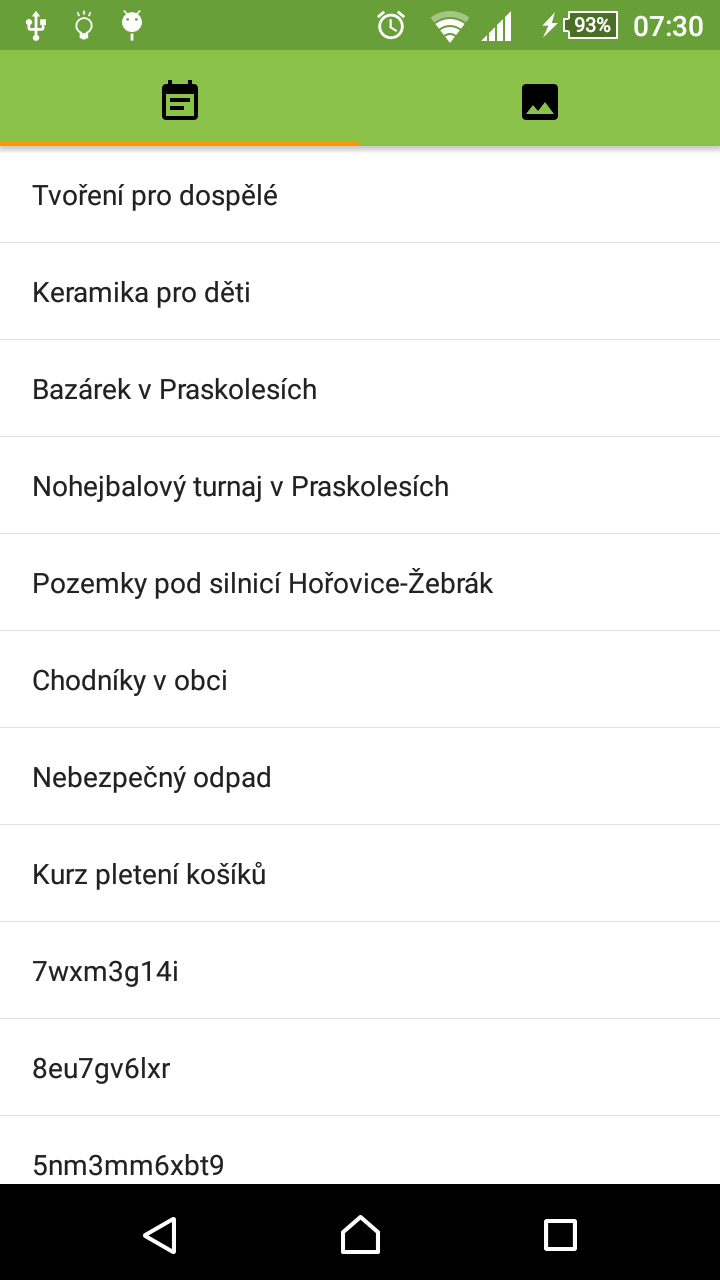
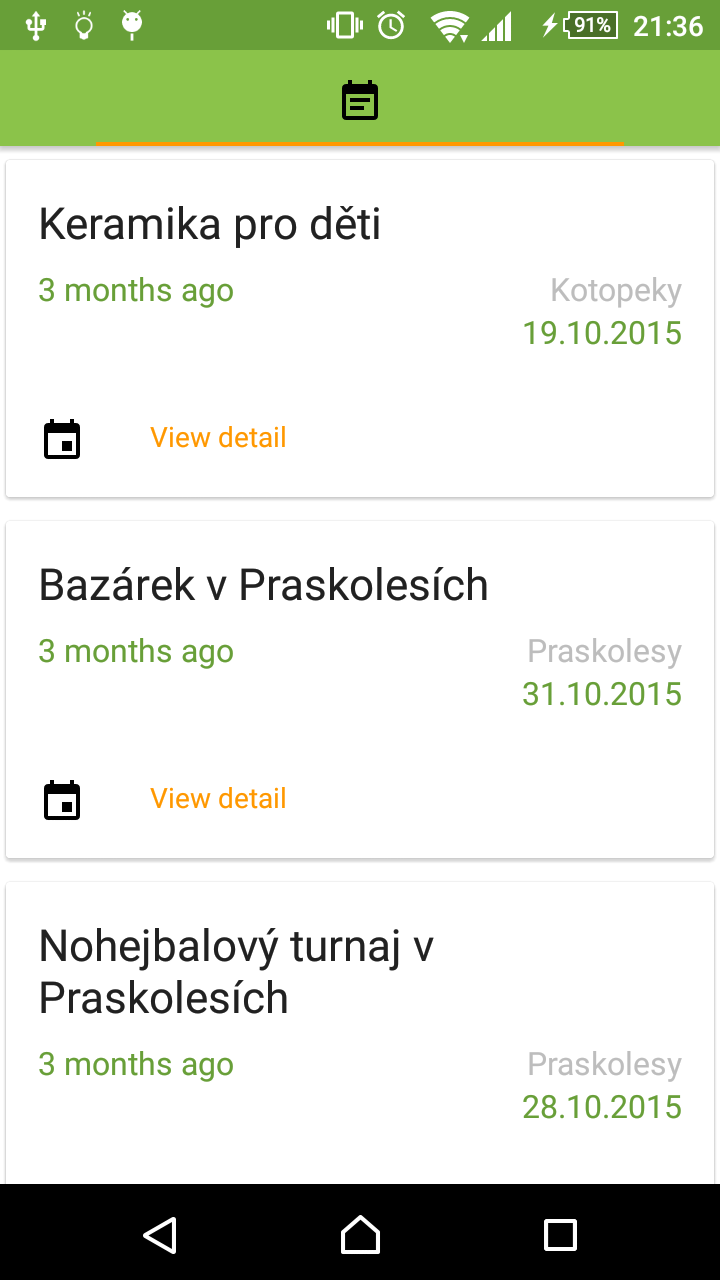
3.3.4.3 - Event list isolated 2 MVVM refactoring - card design with AUTO-LOADER

diff --git a/mobile/src/main/java/cz/koto/misak/kotipoint/android/mobile/adapter/EventRecyclerViewAdapter.java b/mobile/src/main/java/cz/koto/misak/kotipoint/android/mobile/adapter/EventRecyclerViewAdapter.java
@@ -5,7 +5,9 @@ import android.databinding.DataBindingUtil;
 import android.databinding.ViewDataBinding;
 import android.support.v7.widget.RecyclerView;
 import android.view.LayoutInflater;
+import android.view.View;
 import android.view.ViewGroup;
+import android.widget.ProgressBar;
 
 import cz.koto.misak.kotipoint.android.mobile.R;
 import cz.koto.misak.kotipoint.android.mobile.databinding.FragmentEventItemBinding;
@@ -18,11 +20,15 @@ public class EventRecyclerViewAdapter extends AutoLoadingRecyclerViewAdapter<KoT
     private static final int VIEW_TYPE_EVENT = 1;
     private static final int VIEW_TYPE_FOOTER = 2;
 
+    /*Temporary solution to distinguish helper (loader) item*/
+    private static final int UNIQUE_LOADER_ID = -2;
+
     private Context mContext;
+    private EventBindingHolder mFooterViewHolder;
 
     public EventRecyclerViewAdapter(Context context) {
         mContext = context;
-        //addFooter(new KoTiEvent(-2,"Loader"));
+        addFooter(new KoTiEvent(UNIQUE_LOADER_ID,"Loader"));
     }
 
 
@@ -38,8 +44,7 @@ public class EventRecyclerViewAdapter extends AutoLoadingRecyclerViewAdapter<KoT
     @Override
     public EventBindingHolder onCreateViewHolder(ViewGroup parent, int viewType) {
         if (viewType == VIEW_TYPE_EVENT) {
-//            View v = LayoutInflater.from(parent.getContext()).inflate(R.layout.fragment_event_item, parent, false);
-//            return new EventViewHolder(v, mListener);
+            /*Use binding.*/
             FragmentEventItemBinding fragmentEventItemBinding = DataBindingUtil.inflate(
                     LayoutInflater.from(parent.getContext()),
                     R.layout.fragment_event_item,
@@ -48,15 +53,16 @@ public class EventRecyclerViewAdapter extends AutoLoadingRecyclerViewAdapter<KoT
             return new EventBindingHolder(fragmentEventItemBinding);
 
         } else if (viewType == VIEW_TYPE_FOOTER) {
-//            View view = LayoutInflater.from(parent.getContext()).inflate(R.layout.fragment_event_footer, parent, false);
-//            return mFooterViewHolder =  new FooterViewHolder(view);
+            /*Use plain inflate for loader.*/
+            View view = LayoutInflater.from(parent.getContext()).inflate(R.layout.fragment_event_footer, parent, false);
+            return mFooterViewHolder =  new EventBindingHolder(view);
         }
         return null;
     }
 
     @Override
     public int getItemViewType(int position) {
-        if (getItem(position).getmId()<-1){
+        if (getItem(position).getmId()==UNIQUE_LOADER_ID){
             return VIEW_TYPE_FOOTER;
         }else{
             return VIEW_TYPE_EVENT;
@@ -67,7 +73,6 @@ public class EventRecyclerViewAdapter extends AutoLoadingRecyclerViewAdapter<KoT
     public void onBindViewHolder(EventBindingHolder holder, int position) {
         switch (getItemViewType(position)) {
             case VIEW_TYPE_EVENT:
-//                onBindTextHolder(holder, position);
                 FragmentEventItemBinding fragmentEventItemBinding = (FragmentEventItemBinding)holder.binding;
                 fragmentEventItemBinding.setViewModel(new EventViewModel(mContext,getItem(position)));
                 break;
@@ -76,70 +81,56 @@ public class EventRecyclerViewAdapter extends AutoLoadingRecyclerViewAdapter<KoT
         }
     }
 
-//    private void onBindTextHolder(EventBindingHolder holder, int position) {
-//        EventBindingHolder mainHolder = (EventBindingHolder) holder;
-//        mainHolder.mNameTextView.setText(getItem(position).getmHeadline());
-//    }
-
 
     public void hideAutoLoader(){
-//        if (mFooterViewHolder==null)return;
-//        mFooterViewHolder.hideProgress();
+        if (mFooterViewHolder==null)return;
+        mFooterViewHolder.hideProgress();
     }
 
     public  void showLoader(){
-//      if (mFooterViewHolder==null)return;
-//        mFooterViewHolder.showProgress();
+      if (mFooterViewHolder==null)return;
+        mFooterViewHolder.showProgress();
     }
 
-//    public static final class EventViewHolder extends RecyclerView.ViewHolder {
-//        private TextView mNameTextView;
-//
-//        public EventViewHolder(View itemView) {
-//            super(itemView);
-//
-//            // find views
-//            mNameTextView = (TextView) itemView.findViewById(R.id.fragment_event_item_name);
-//        }
-//
-//
-//        public void bindData(KoTiEvent koTiEvent) {
-//            mNameTextView.setText(koTiEvent.getmHeadline());
-//        }
-//    }
-//
-//    public static final class FooterViewHolder extends RecyclerView.ViewHolder {
-//
-//        private ProgressBar mProgressBar;
-//
-//        public FooterViewHolder(View itemView) {
-//            super(itemView);
-//
-//            mProgressBar = (ProgressBar) itemView.findViewById(R.id.fragment_event_footer_progress);
-//            hideProgress();
-//        }
-//
-//        public void showProgress(){
-//            mProgressBar.setVisibility(View.VISIBLE);
-//        }
-//
-//        public void hideProgress(){
-//            mProgressBar.setVisibility(View.GONE);
-//        }
-//    }
-
+    /**
+     * EventBindingHolder item.
+     *
+     * TODO temporary (two in one) quick fix.
+     * Currently could be initialized as binding item, or as helper loader holder.
+     * This should be solved better (clearly) in the future.
+     */
     public static class EventBindingHolder extends RecyclerView.ViewHolder {
         private ViewDataBinding binding;
+        private ProgressBar mProgressBar;
 
         public EventBindingHolder(FragmentEventItemBinding binding) {
-            super(binding.cardView);
+            super(binding.eventCardView);
             this.binding = binding;
         }
 
-//        public BindingHolder(FragmentEventFooter binding) {
-//            super(binding.containerItem);
-//            this.binding = binding;
-//        }
+        public EventBindingHolder(View itemView) {
+            super(itemView);
+
+            mProgressBar = (ProgressBar) itemView.findViewById(R.id.fragment_event_footer_progress);
+            hideProgress();
+        }
+
+        public void showProgress(){
+            if (mProgressBar!=null) {
+                mProgressBar.setVisibility(View.VISIBLE);
+            }
+        }
+
+        public void hideProgress(){
+            if (mProgressBar!=null) {
+                mProgressBar.setVisibility(View.GONE);
+            }
+        }
+
+        public boolean isLoader(){
+            return  (mProgressBar==null);
+        }
+
     }
 
 }

diff --git a/mobile/src/main/java/cz/koto/misak/kotipoint/android/mobile/viewModel/EventViewModel.java b/mobile/src/main/java/cz/koto/misak/kotipoint/android/mobile/viewModel/EventViewModel.java
@@ -4,13 +4,13 @@ package cz.koto.misak.kotipoint.android.mobile.viewModel;
 import android.content.Context;
 import android.content.Intent;
 import android.databinding.BaseObservable;
-import android.text.Html;
-import android.text.Spannable;
-import android.text.SpannableString;
-import android.text.style.UnderlineSpan;
+import android.support.design.widget.Snackbar;
 import android.view.View;
 
 import org.ocpsoft.prettytime.PrettyTime;
+
+import java.text.SimpleDateFormat;
+import java.util.Date;
 
 import cz.koto.misak.kotipoint.android.mobile.R;
 import cz.koto.misak.kotipoint.android.mobile.activity.EventDetailActivity;
@@ -52,57 +52,38 @@ public class EventViewModel extends BaseObservable {
 //        }
 //    }
 
-    public String getPostScore() {
-        return event.getmEventDate()==null? "N/A":new PrettyTime().format(event.getmEventDate());
+    public String getEventDateDuration() {
+        return event.getmEventDate() == null ? "" : new PrettyTime().format(event.getmEventDate());
     }
 
-    public Spannable getPostAuthor() {
-        String location = (event.getmEventLocation()==null || event.getmEventLocation().size()==0)?"-":event.getmEventLocation().get(0);
-        String author = context.getString(R.string.text_post_author,location);
-        SpannableString content = new SpannableString(author);
-        int index = author.indexOf(location);
-        content.setSpan(new UnderlineSpan(), index,location.length() + index, 0);
-        return content;
+    public String getEventDate() {
+        SimpleDateFormat df = new SimpleDateFormat(context.getResources().getString(R.string.date_format_date));
+        return event.getmEventDate() == null ? "" : df.format(event.getmEventDate());
     }
 
-    public String getPostTitle() {
+    public int getEventDateVisibility() {
+        return (event.getmEventDate() == null || event.getmEventDate().after(new Date())) ? View.GONE : View.VISIBLE;
+    }
+
+    public String getEventLocation() {
+        String location = (event.getmEventLocation() == null || event.getmEventLocation().size() == 0) ? "-" : event.getmEventLocation().get(0);
+//        String author = context.getString(R.string.text_post_author,location);
+//        SpannableString content = new SpannableString(author);
+//        int index = author.indexOf(location);
+//        content.setSpan(new UnderlineSpan(), index,location.length() + index, 0);
+//        return content;
+        return location;
+    }
+
+    public String getHeadline() {
         return event.getmHeadline();
     }
 
-    public String getCommentText() {
-        return Html.fromHtml(event.getmText().trim()).toString();
-    }
 
-    public String getCommentAuthor() {
-        return context.getResources().getString(R.string.text_comment_author, event.getmHeadline());
-    }
-
-    public String getCommentDate() {
-        return event.getmEventDate()==null? "N/A":new PrettyTime().format(event.getmEventDate());
-    }
-
-    public int getCommentsVisibility() {
-        return  /*post.postType == Post.PostType.STORY && post.kids == null*/false ? View.GONE : View.VISIBLE;
-    }
-
-//    public int getCommentDepth() {
-//        return event.depth;
-//    }
-//
-//    public boolean getCommentIsTopLevel() {
-//        return event.isTopLevelComment;
-//    }
-
-    public View.OnClickListener onClickPost() {
+    public View.OnClickListener onClickEvent() {
         return new View.OnClickListener() {
             @Override
             public void onClick(View v) {
-//                Post.PostType postType = post.postType;
-//                if (postType == Post.PostType.JOB || postType == Post.PostType.STORY) {
-//                    launchStoryActivity();
-//                } else if (postType == Post.PostType.ASK) {
-//                    launchCommentsActivity();
-//                }
                 context.startActivity(EventDetailActivity.newIntent(context));
                 Intent i = EventDetailActivity.newIntent(context);
                 i.putExtra(EventDetailActivity.PAYLOAD_KEY, event);
@@ -111,22 +92,16 @@ public class EventViewModel extends BaseObservable {
         };
     }
 
-    public View.OnClickListener onClickAuthor() {
+    public View.OnClickListener onClickDate() {
         return new View.OnClickListener() {
             @Override
             public void onClick(View v) {
-                //do nothing yet
+                // Display a SnackBar with an explanation and a button to trigger the request.
+                Snackbar.make(v, R.string.calendar_not_implemented,
+                        Snackbar.LENGTH_SHORT).show();
             }
         };
     }
 
-    public View.OnClickListener onClickComments() {
-        return new View.OnClickListener() {
-            @Override
-            public void onClick(View v) {
-               //do nothing yet
-            }
-        };
-    }
 }
 

diff --git a/mobile/src/main/java/cz/koto/misak/kotipoint/android/mobile/adapter/AutoLoadingRecyclerViewAdapter.java b/mobile/src/main/java/cz/koto/misak/kotipoint/android/mobile/adapter/AutoLoadingRecyclerViewAdapter.java
@@ -25,16 +25,19 @@ public abstract class AutoLoadingRecyclerViewAdapter<T,U extends RecyclerView.Vi
 
     protected List<T> mElementList = new ArrayList<>();
 
+    protected int mFooterCount = 0;
+
     public void addNewItems(List<T> items) {
-        mElementList.addAll(mElementList.size()/*-1 footer*/,items);
+        mElementList.addAll(mElementList.size()- mFooterCount,items);
     }
 
     public void addNewItem(T item) {
-        mElementList.add(mElementList.size()/*-1 footer*/,item);
+        mElementList.add(mElementList.size()- mFooterCount,item);
     }
 
     public void addFooter(T item) {
         mElementList.add(item);
+        mFooterCount++;
     }
 
     public List<T> getItems() {
